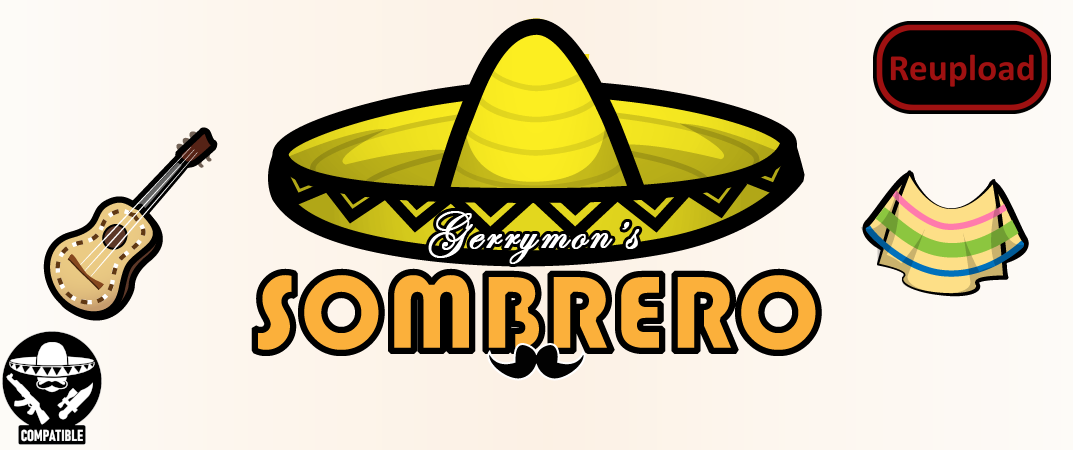
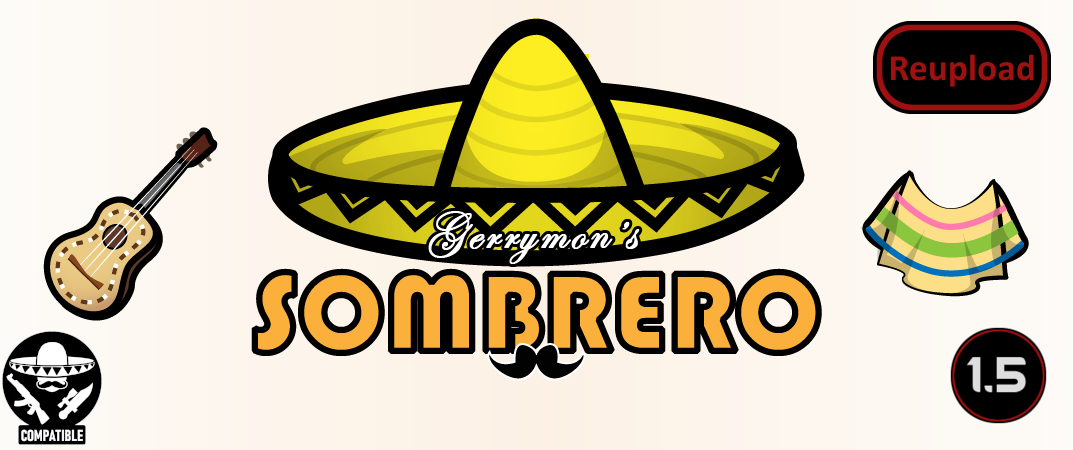
Mod updated for 1.5 and passed autotests

Changed region(s): [[0.8611, 0.7156, 0.9842, 0.9644]]

diff --git a/README.md b/README.md
@@ -39,11 +39,13 @@ https://ludeon.com/forums/index.php?topic=40821.0
 
 -  See if the the error persists if you just have this mod and its requirements active.
 -  If not, try adding your other mods until it happens again.
--  Post your error-log using https://steamcommunity.com/workshop/filedetails/?id=818773962]HugsLib and command Ctrl+F12
+-  Post your error-log using https://steamcommunity.com/workshop/filedetails/?id=818773962]HugsLib or the standalone https://steamcommunity.com/sharedfiles/filedetails/?id=2873415404]Uploader and command Ctrl+F12
 -  For best support, please use the Discord-channel for error-reporting.
 -  Do not report errors by making a discussion-thread, I get no notification of that.
 -  If you have the solution for a problem, please post it to the GitHub repository.
+-  Use https://github.com/RimSort/RimSort/releases/latest]RimSort to sort your mods
 
 
 
+https://steamcommunity.com/sharedfiles/filedetails/changelog/2523852601]![Image](https://img.shields.io/github/v/release/emipa606/GerrymonsSombrero?label=latest%20version&style=plastic&color=9f1111&labelColor=black)
 
